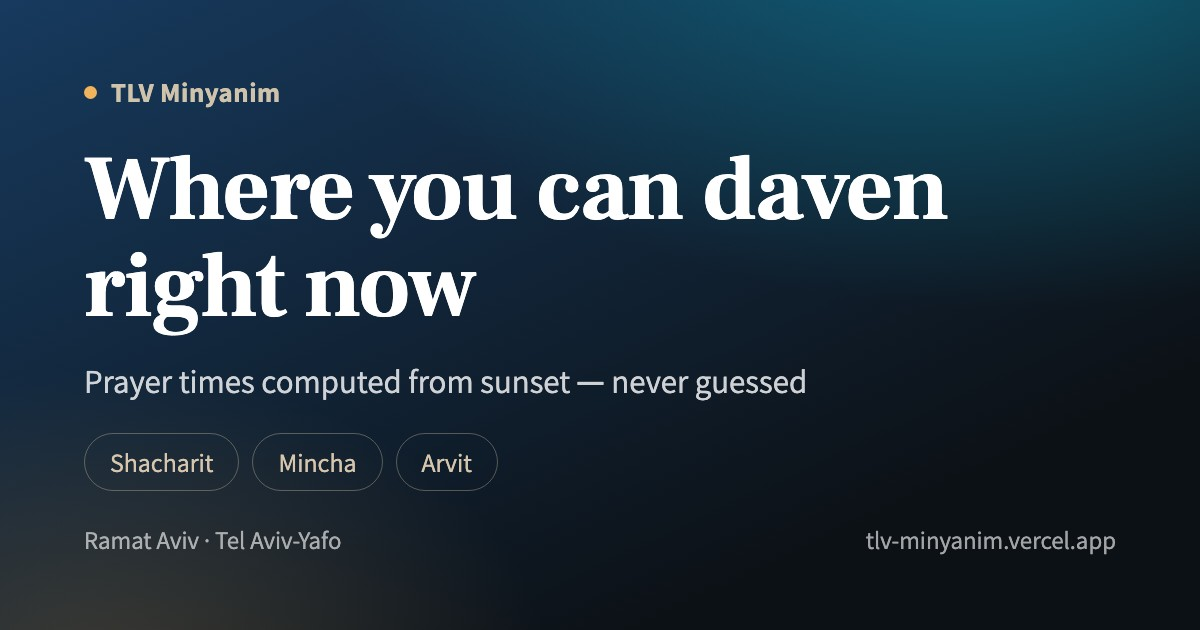
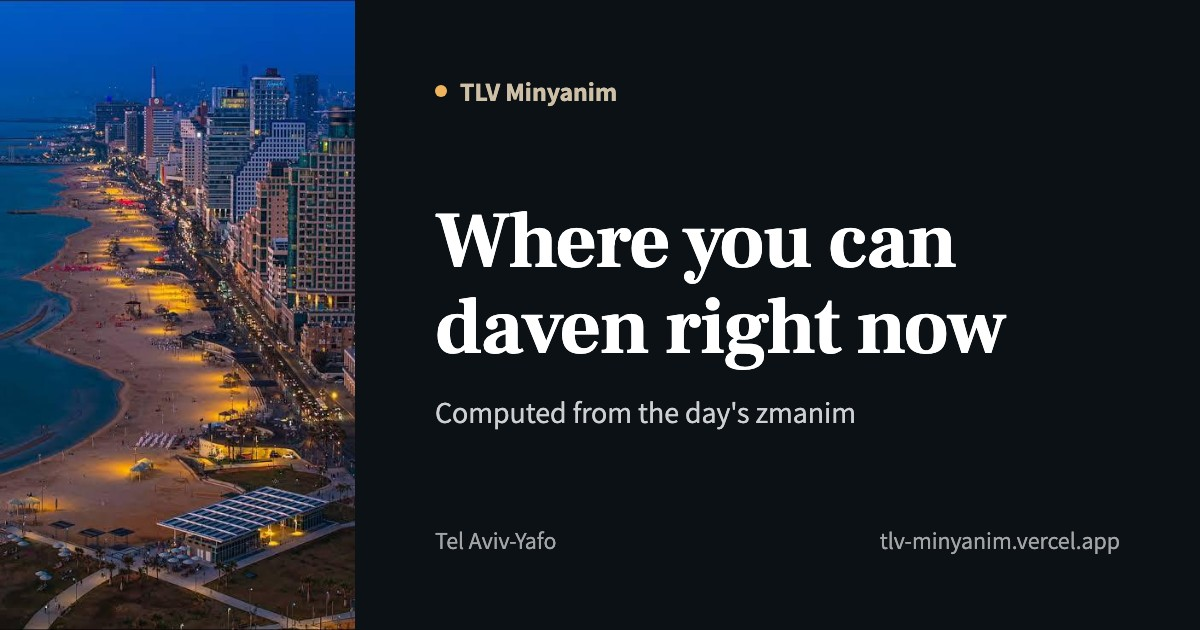
A photograph of the city, instead of an argument for one
The card was a dark gradient with three service pills. At the size a chat
actually renders a preview it collapsed to a navy rectangle: the sea-and-amber
glow does not survive JPEG compression that small, and the pills were
illegible blobs carrying the least information on the card, since none of them
can be given a time.

The designer's own recommendation was a daylight Bauhaus card — white plaster,
a quarter-circle standing for a balcony curve. It was the better of its three
variants and I passed it on without the context that matters: CLAUDE.md
records five directions built on exactly that premise, all five answered
"doesn't remind me of Tel Aviv", and the palette that replaced them was
sampled from photographs. A card whose Tel Aviv-ness has to be explained is
making that bet a sixth time.

So the card is now a photograph of the city beside the headline. It needs no
argument. tlv-night.jpg is 416x738 and appears at 355x630 — scaled DOWN,
never up, which is the rule for both photographs. 107 KB, still a third of
WhatsApp's ceiling.

The subhead was wrong Hebrew and the client caught it. `מחושב מזריחה ושקיעה`
had two faults: `זריחה` is the everyday word for sunrise where a prayer-time
context wants `נץ` — the site's own zmanim table says נץ — and `מחושב` dangled,
masculine singular with no subject, where the site's footer writes
`כל הזמנים מחושבים`. Now `מחושבים לפי זמני היום`, which uses the site's own
phrase and agrees with the subject it implies.
[…]

diff --git a/scripts/og/card.html b/scripts/og/card.html
@@ -1,65 +1,50 @@
 <!doctype html>
 <meta charset="utf-8">
 <style>
-  /* The self-hosted faces the site itself uses. Loading them from disk rather
-     than a CDN is what makes the Hebrew render as the real thing. */
-  @font-face { font-family: 'Frank Ruhl Libre'; src: url('../../public/fonts/frank-ruhl-libre-hebrew.woff2') format('woff2'); font-weight: 400 700; }
-  @font-face { font-family: 'Frank Ruhl Libre'; src: url('../../public/fonts/frank-ruhl-libre-latin.woff2') format('woff2'); font-weight: 400 700; unicode-range: U+0000-024F; }
-  @font-face { font-family: 'Assistant'; src: url('../../public/fonts/assistant-hebrew.woff2') format('woff2'); font-weight: 400 700; }
-  @font-face { font-family: 'Assistant'; src: url('../../public/fonts/assistant-latin.woff2') format('woff2'); font-weight: 400 700; unicode-range: U+0000-024F; }
+  /* The site's own self-hosted faces, from disk. Loading them here rather than
+     from a CDN is what makes the Hebrew on the card the same Hebrew as on the
+     page. */
+  @font-face { font-family:'Frank Ruhl Libre'; src:url('../../public/fonts/frank-ruhl-libre-hebrew.woff2') format('woff2'); font-weight:400 700; }
+  @font-face { font-family:'Frank Ruhl Libre'; src:url('../../public/fonts/frank-ruhl-libre-latin.woff2') format('woff2'); font-weight:400 700; unicode-range:U+0000-024F; }
+  @font-face { font-family:'Assistant'; src:url('../../public/fonts/assistant-hebrew.woff2') format('woff2'); font-weight:400 700; }
+  @font-face { font-family:'Assistant'; src:url('../../public/fonts/assistant-latin.woff2') format('woff2'); font-weight:400 700; unicode-range:U+0000-024F; }
 
-  :root {
-    --sea:   #0E93AE;
-    --night: #173A5E;
-    --ink:   #0C1116;
-    --amber: #F0B45C;
-    --sand:  #E0CFB4;
-  }
-  * { margin: 0; box-sizing: border-box; }
+  /* `overflow: hidden` on BOTH html and body, not just body.
+     With it on body alone and an element reaching past the canvas edge,
+     Chromium mis-paints the Hebrew headline — glyphs vanish off the right edge
+     while getBoundingClientRect insists the text box is fully contained. Found
+     while building this card; keep both. */
+  html, body { overflow: hidden; }
+  * { margin:0; box-sizing:border-box; }
+
   body {
-    width: 1200px; height: 630px; overflow: hidden;
-    /* Dusk over the promenade, which is the hour this site is for. */
-    background:
-      radial-gradient(1100px 620px at 84% -12%, rgba(14,147,174,.55), transparent 62%),
-      radial-gradient(760px 520px at 8% 108%, rgba(240,180,92,.20), transparent 60%),
-      linear-gradient(155deg, var(--night) 0%, var(--ink) 78%);
-    color: #fff;
-    font-family: 'Assistant', system-ui, sans-serif;
-    display: flex; flex-direction: column; justify-content: space-between;
-    padding: 74px 84px;
+    width:1200px; height:630px; display:flex;
+    background:#0C1116; color:#fff;
+    font-family:'Assistant', system-ui, sans-serif;
   }
-  .brand {
-    display: flex; align-items: center; gap: 14px;
-    font-size: 27px; font-weight: 700; letter-spacing: .02em;
-    color: rgba(224,207,180,.92);
-  }
-  .dot { width: 13px; height: 13px; border-radius: 50%; background: var(--amber); }
-  h1 {
-    font-family: 'Frank Ruhl Libre', Georgia, serif;
-    font-size: 92px; line-height: 1.06; font-weight: 700; letter-spacing: -.015em;
-    max-width: 15ch;
-  }
-  .sub { margin-top: 22px; font-size: 33px; color: rgba(255,255,255,.80); }
-  /* The three services, named but never given a time: a shared image cannot
-     carry a real one, and an invented one is the single thing this project
-     refuses to do. */
-  .services { display: flex; gap: 13px; }
-  .pill {
-    border: 1px solid rgba(224,207,180,.34); border-radius: 999px;
-    padding: 11px 25px; font-size: 26px; color: rgba(224,207,180,.95);
-  }
-  .foot {
-    display: flex; align-items: center; justify-content: space-between;
-    font-size: 25px; color: rgba(255,255,255,.62);
-  }
-  body[dir='ltr'] h1 { max-width: 17ch; }
+
+  /* A photograph of the city, and that is the whole argument.
+     Five design directions were built on Bauhaus theory and all five were
+     told "doesn't remind me of Tel Aviv"; the palette that replaced them came
+     from photographs. A card that has to explain why its quarter-circle
+     evokes a balcony is making the same bet again. This one does not need the
+     argument.
+     tlv-night.jpg is 416x738 and appears here at 355x630 — scaled DOWN, never
+     up, which is the rule CLAUDE.md sets for both photographs. */
+  .shot { width:355px; height:630px; flex:none; background:url('../../public/tlv-night.jpg') center/cover no-repeat; }
+
+  .body { flex:1; padding:74px 80px; display:flex; flex-direction:column; justify-content:space-between; }
+  .brand { display:flex; align-items:center; gap:13px; font-size:26px; font-weight:700; color:rgba(224,207,180,.92); }
+  .dot { width:12px; height:12px; border-radius:50%; background:#F0B45C; }
+  h1 { font-family:'Frank Ruhl Libre', Georgia, serif; font-size:80px; line-height:1.07; font-weight:700; letter-spacing:-.015em; }
+  .sub { margin-top:20px; font-size:30px; color:rgba(255,255,255,.80); }
+  .foot { display:flex; justify-content:space-between; font-size:24px; color:rgba(255,255,255,.62); }
 </style>
 <body>
-  <div class="brand"><span class="dot"></span><span id="brand"></span></div>
-  <div>
-    <h1 id="tagline"></h1>
-    <p class="sub" id="sub"></p>
+  <div class="shot"></div>
+  <div class="body">
+    <div class="brand"><span class="dot"></span><span id="brand"></span></div>
+    <div><h1 id="tagline"></h1><p class="sub" id="sub"></p></div>
+    <div class="foot"><span id="where"></span><span id="host"></span></div>
   </div>
-  <div class="services" id="services"></div>
-  <div class="foot"><span id="where"></span><span id="host"></span></div>
 </body>

diff --git a/src/i18n/dictionaries.ts b/src/i18n/dictionaries.ts
@@ -32,8 +32,8 @@ const he = {
    * Distinct from `ogDescription`, which is the text a chat app prints BELOW
    * the image — the two are read together and must not repeat each other.
    */
-  ogCardSubhead: 'זמני תפילה מדויקים, לפי השקיעה — לא ניחוש',
-  ogCardWhere: 'רמת אביב · תל אביב-יפו',
+  ogCardSubhead: 'מחושבים לפי זמני היום',
+  ogCardWhere: 'תל אביב-יפו',
   languageName: 'עברית',
   otherLanguageName: 'English',
   services: {
@@ -339,8 +339,8 @@ const en: typeof he = {
   tagline: 'Where you can daven right now',
   ogDescription:
     'Minyan times in Ramat Aviv, computed from the day\'s zmanim — and when a time is unknown, it says so.',
-  ogCardSubhead: 'Prayer times computed from sunset — never guessed',
-  ogCardWhere: 'Ramat Aviv · Tel Aviv-Yafo',
+  ogCardSubhead: "Computed from the day's zmanim",
+  ogCardWhere: 'Tel Aviv-Yafo',
   languageName: 'English',
   otherLanguageName: 'עברית',
   services: {
